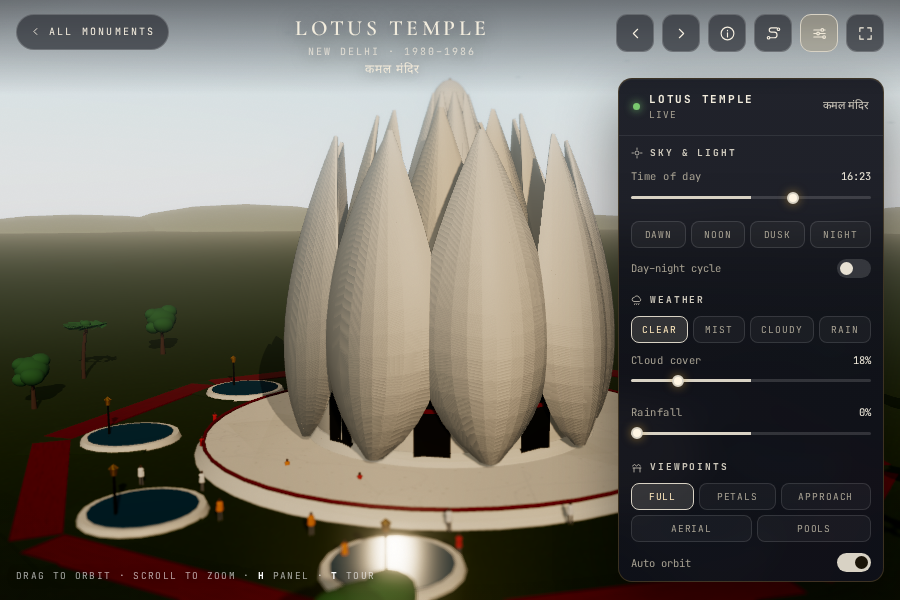
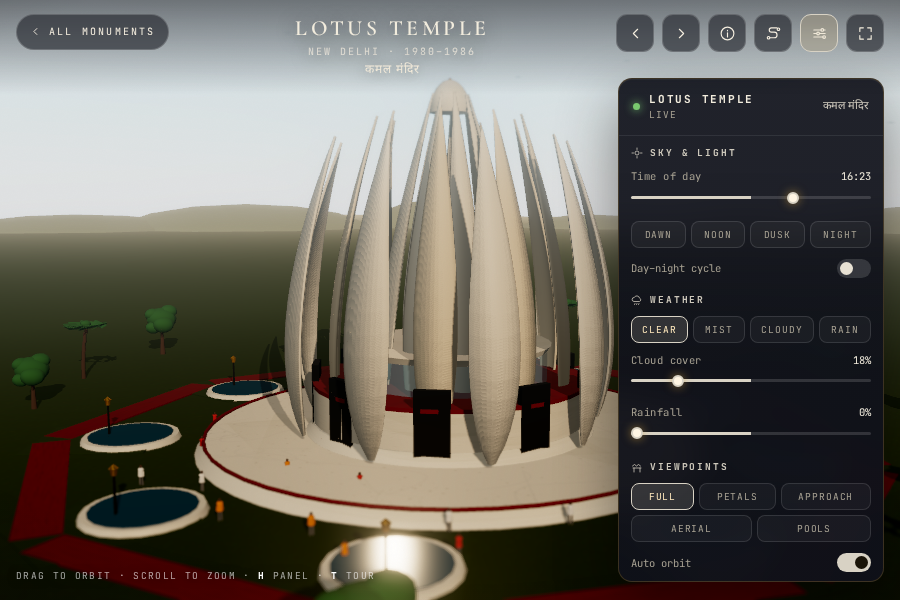
Lotus Temple: slim petals, twenty-seven of them
The parametric petals were 11.2 m wide, so three rings of nine merged into a
ring of nine fat buds. Half-width cut to 2.1 / 1.85 / 1.6 m and the cup
reduced, so all 27 petals read separately and the flower closes to a point.
This is the last of the design-audit fixes.

Changed region(s): [[0.28, 0.18, 0.6844, 0.78]]

diff --git a/assets/js/monuments/lotus-temple.js b/assets/js/monuments/lotus-temple.js
@@ -150,9 +150,9 @@ export default {
        to a single point. */
     const BASE = 1.1;
     const RINGS = [
-      { R0: 14.2, Rmid: 18.4, Rtip: 10.8, H: 27.2, W: 5.6, cup: 0.56, thick: 0.34, rot: 0, mat: MARBLE },
-      { R0: 10.6, Rmid: 13.4, Rtip: 6.6, H: 29.4, W: 4.7, cup: 0.60, thick: 0.32, rot: Math.PI / 9, mat: MARBLE2 },
-      { R0: 6.8, Rmid: 8.6, Rtip: 1.6, H: 31.4, W: 3.7, cup: 0.66, thick: 0.30, rot: 0, mat: MARBLE }
+      { R0: 14.2, Rmid: 18.4, Rtip: 10.8, H: 27.2, W: 2.10, cup: 0.38, thick: 0.26, rot: 0, mat: MARBLE },
+      { R0: 10.6, Rmid: 13.4, Rtip: 6.6, H: 29.4, W: 1.85, cup: 0.42, thick: 0.24, rot: Math.PI / 9, mat: MARBLE2 },
+      { R0: 6.8, Rmid: 8.6, Rtip: 1.6, H: 31.4, W: 1.60, cup: 0.46, thick: 0.22, rot: 0, mat: MARBLE }
     ];
     RINGS.forEach((r) => {
       for (let i = 0; i < 9; i++) {
